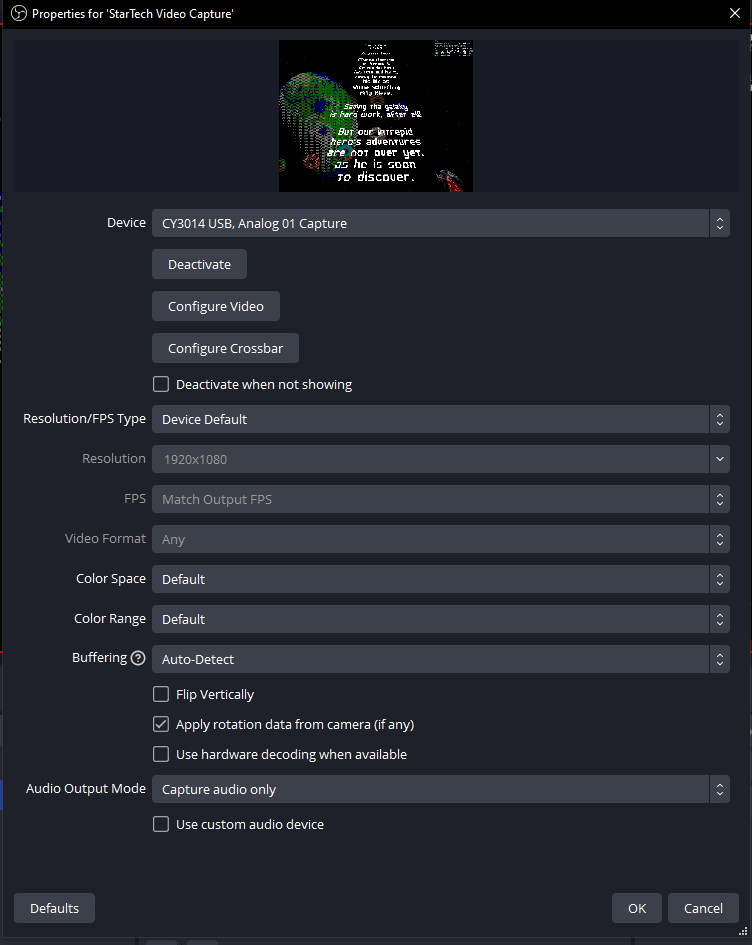
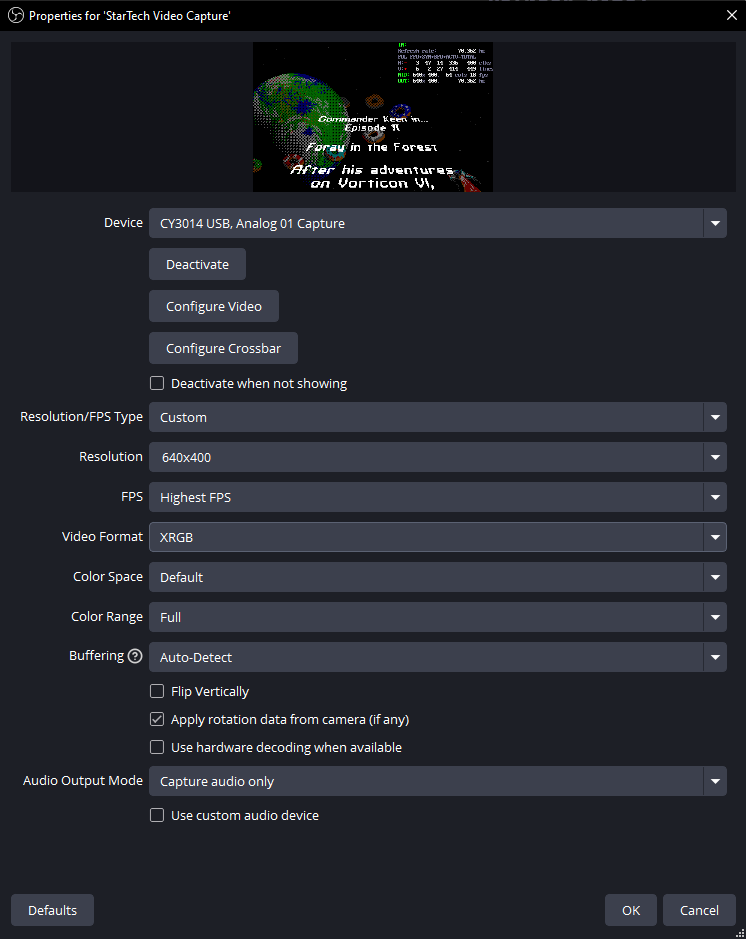
Revise "Capturing CRT Terminator output for YouTube or Twitch streaming via OBS" section with clarifications to OBS behavior.

diff --git a/manual/index.html b/manual/index.html
@@ -753,23 +753,20 @@ all packed into a single 8-bit ISA expansion card!
 <p>We have tested a range of USB HDMI video capture devices for compatibility. Coarsely categorizing the results:
 <ul><li>The main observation is that Elgato HDMI video capture devices do not work at all. Avoid these devices. (The suspicion is that Elgato skimped on adding DVI-D video signal recording support)</li>
 <li>Cheap Amazon HDMI capture devices tend to work, but typically use Motion JPEG compression (MJPEG) in the recorded video, so video capture quality is not that great. Maximum recordable pixel clock speed (i.e. resolution * refresh rate) may be limited.</li>
-<li>The best video capture device we have found so far is this <a href='https://www.startech.com/en-fi/audio-video-products/usb3hdcap'>StarTech USB3HDCAP device</a>, although it records lossy 4:2:0 Chroma, its drivers are somewhere from Windows 7 era and StarTech is no longer developing it, it seems. Sometimes disconnecting the device from USB causes a blue screen on Windows. The available recording bandwidth is great, but not quite enough to record 1600x1200 @ 70 Hz. (1280x1000 @ 70 Hz seems to work, and so does 1440x1080 @ 60 Hz)</li>
+<li>The best video capture device we have found so far is this <a href='https://www.startech.com/en-fi/audio-video-products/usb3hdcap'>StarTech USB3HDCAP device</a>, although it records lossy 4:2:0 Chroma, its drivers are somewhere from Windows 7 era and StarTech is no longer developing it, it seems. Sometimes disconnecting the device from USB or closing OBS causes a blue screen on Windows. The available recording bandwidth is great, enough to record all DOS video modes in Passthrough mode at 70 Hz, and other upscaled resolutions, such as 1600x1200 @ 60 Hz and 1440x1080 @ 70 Hz. Though there is not quite enough bandwidth to record 1600x1200 @ 70 Hz.
 <li>One brand of video capture devices we have not been able to test, but are curious about, are the Magewell branded USB capture boxes. They are said to offer 4:4:4 Chroma recording support.</li>
 </ul>
 
-<p>An example video capture of Mode 13h content, i.e. 320x200 @ 70 Hz, from an open source game mod <i>Commander Keen in... "Goodbye, Galaxy!" Episode π: Foray in the Forest</i> recorded as 1280x1000 @ 70 Hz source from OBS, upscaled to 1600x1200 is available here:
-<ol><li><a href='https://www.youtube.com/watch?v=8o7cu9mYL10'>Uploaded to YouTube</a></li>
-<li><a href='https://oummg.com/dump/commander_keen_foray_in_the_forest_crt_terminator.mkv'>Direct .mkv download link</a> (file size: 306MB)</li>
+<p>An example video capture of Mode 13h content, i.e. 320x200 @ 70 Hz, from an open source game mod <i>Commander Keen in... "Goodbye, Galaxy!" Episode π: Foray in the Forest</i> recorded in CRT Terminator Passthrough mode (640x400 @ 70.362 Hz) from OBS, upscaled to 1600x1200 is available here:
+
+<br><a href='foray_video_thumbnail.png'><img src='foray_video_thumbnail.png' width=55%></a><img src='commander_keen_foray_in_the_forest_crt_terminator_1600x1200_70.362hz.png'>
+<ol><li>Uploaded to <a href='https://youtu.be/FR_v5XbwRb8'>YouTube: Commander Keen - Foray in the Forest - 1600x1200 @ 70.362 Hz.</a></li>
+<li>Direct download link without YouTube recompression: <a href='https://oummg.com/manual/commander_keen_foray_in_the_forest_crt_terminator_1600x1200_70.362hz.mkv'>commander_keen_foray_in_the_forest_crt_terminator_1600x1200_70.362hz.mkv</a> (file size: 229MB)</li>
 </ol>
 
 <p>The Foray in the Forest mod contains patches to update Keen 4 to run at 70 fps, instead of the original 35fps that Keen 4-6 games were developed to run at. See <a href='https://github.com/juj/KEEN70HZ'>juj/KEEN70HZ</a> for more details about Keen refresh rate.
 
-<p>However, due to some OBS software bugs, the video it records from USB3HDCAP is not perfect. There are two observed limitations:
-<ol><li>For some reason, OBS acquires video from USB3HDCAP by frame skipping every second frame. That is, if the input video is 60 or 70 Hz, then OBS only records 30 or 35 Hz respectively. This may be due to some kind of confusion between interlaced and progressive video modes. CRT Terminator always output progressive video, but OBS still only captures every second frame. Originally I thought this to be a USB3HDCAP hardware limitation, but using other software (see the next section about VirtualDub), this limitation does not occur. USB3HDCAP can record both 60 and 70 Hz, but for some reason OBS (tested v30.1.2) always skips every other input video frame from USB3HDCAP.</li>
-<li>Additionally, OBS generates some amount of blurring in the video it acquires from USB3HDCAP. Originally I attributed this to the 4:2:0 lossy Chroma from USB3HDCAP, but in addition, OBS adds some kind of blurring or filtering on top of that (which again VirtualDub capture avoided). This blurring is present already in the OBS preview window, so is not a compression artifact.</li>
-</ol>
-
-<p>Nevertheless, it is possible to use OBS to get decent video captures from USB3HDCAP recording CRT Terminator. The configuration that was used in OBS to acquire the above video recording is as follows:
+<p>The next section outlines the OBS capture settings that were used to record this video.
 
 <h3>General Video Recording Settings</h3>
 
@@ -786,9 +783,9 @@ all packed into a single 8-bit ISA expansion card!
 
 <p>In particular, the video canvas size was set to 1600x1200. This is a good resolution for recordings that aim for lossless 4:3 aspect ratio video output. Another good video canvas size for viewing on 1080p displays would be to set 1440x1080. That size would correspond to 4:3 aspect ratioed 1080 lines content.
 
-<p>The FPS value was set to precisely match the video output refresh rate that CRT Terminator states to be outputting. In this instance, it was 70362/1000 or 70.362 Hz. To see the CRT Terminator video refresh rate, either toggle the Developer HUD with the DIP Switch 2.4 at the back of CRT Terminator, or see if the HDMI Video Capture device you are using has a statistics window that could record this.
+<p>The FPS value was set to precisely match the video output refresh rate that CRT Terminator states to be outputting. In this instance, it was 70362/1000 or 70.362 Hz. To see the CRT Terminator video refresh rate, either toggle the Developer HUD with the DIP Switch 2.4 at the back of CRT Terminator, or see if the HDMI Video Capture device you are using has a statistics window that displays this value.
 
-<p>Note that even if video refresh rate is set to precisely match the source content, this will not be a locked synchronization, and occassional frames can and will drop. It is a bit odd that OBS does not seem to support locking the recording refresh rate to the rate of an input video, so this is the closest approximation we found.
+<p>Note that even if video refresh rate is set to precisely match the source content, this will not be a locked synchronization in OBS, and occassional frames can and will drop. It is a bit odd that OBS does not seem to support locking the recording refresh rate to the rate of an input video, so this is the closest approximation we found. However, the expected frame drop should occur less than 1/1000th of a Hz, i.e. approximately at most once every 1000 frames, in this case at most every 14.2 seconds.
 
 <p>It should be noted that recording with "odd" refresh rates like this make sense only if viewed on a high refresh rate display. For example, viewing 70Hz video on a 60Hz display is not much different from viewing 60Hz recorded video in the first place. However, when viewing 70Hz video on a high refresh rate gaming display, e.g. a 144 Hz, 240 Hz, 360 Hz or higher, video playback frame stuttering mismatches are minimized.
 
@@ -800,12 +797,14 @@ all packed into a single 8-bit ISA expansion card!
 
 <p> <a href='obs_startech_settings1.png'><img src='obs_startech_settings1.png' width=25%></a>
 
-<p>Because the StarTech capture device does not have enough bandwidth for capturing 1600x1200 @ 70Hz, then as a compromise, MultiMode and StutterStop Level 3 were enabled and video output DIP switches 1.1-1.4 were set to 1440x1080. This resulted in CRT Terminator outputting a video of size 1280x1000 @ 70.362 Hz.
+<p>The StarTech USB3HDCAP capture device is 4:2:0 Chroma lossy, but fortunately if the video capture is done at exactly 2x the resolution of the original video, the Chroma loss is hidden. Setting CRT Terminator to Passthrough mode will do exactly this for DOS 320x200 mode, i.e. the video will then output at 640x400 resolution, and at original refresh rate.
 
 <p> <a href='obs_startech_settings2.png'><img src='obs_startech_settings2.png' width=40%></a>
 <a href='obs_startech_settings3.png'><img src='obs_startech_settings3.png' width=40%></a>
 
-<p>None of the settings for the video capture device were changed, but were left to the defaults.
+<p>For USB3HDCAP specifically, it is important to set <b>Resolution/FPS Type</b> to <i>Custom</i>, and then set <b>Video Format</b> to <i>XRGB</i>, or otherwise OBS/USB3HDCAP will apply some kind of own "extra" Chroma loss to the output (we thought Chroma loss in uncompressed/raw video would be <a href='https://en.wikipedia.org/wiki/Idempotence'>idempotent</a>, but apparently the effect does cumulate somehow in OBS). Setting Video Format to XRGB was critical for USB3HDCAP to get a lossless pixel perfect recording.
+
+<p>Unfortunately OBS has a bit awkward UI quirk that setting Video Format to custom then requires that one manually also configures the recording Resolution. There is no way to just say "record whatever input resolution is coming in, but as XRGB." So this was set manually to 640x400. Getting the recording resolution exactly right is critical for pixel perfect captures.
 
 <h3>Source Transform Settings</h3>
 
@@ -816,13 +815,13 @@ all packed into a single 8-bit ISA expansion card!
 <p> <a href='obs_edit_transform.png'><img src='obs_edit_transform.png' width=40%></a>
 <a href='obs_transform_settings.png'><img src='obs_transform_settings.png' width=40%></a>
 
-<p>Here the Size parameter was set to match the 1280x1000 video input size, but the Bounding Box Size was set to match the 1600x1200 video output size.
+<p>Here the Size parameter was set to match the 640x400 video input size, but the Bounding Box Size was set to match the 1600x1200 video output size.
 
 <p>These configurations ensure that OBS will stretch the source video over the 1600x1200 canvas.
 
 <h3>Scale Filtering Settings</h3>
 
-<p>Finally, to ensure that the video upscaling to 1600x1200 will take place with the best possible image quality, the Video Scale Filtering options were changed to <i>Area</i> mode. This implements surface-area upsampling, which provides great quality output that does not blur like bilinear filtering does.
+<p>Finally, to ensure that the video upscaling to 1600x1200 will take place with the pixelated image look, the Video Scale Filtering options were changed to <i>Area</i> mode. This implements surface-area upsampling, which provides great quality output that does not blur like bilinear filtering does. In this specific case (upscaling 320x200 video that is upscaled to 640x400, and then upscaling that to 1600x1200) setting between <i>Area</i> and <i>Point</i> shouldn't matter, and should give identical result. Although in other upscaling scenarios, we prefer the Area mode.
 
 <p><a href='obs_scale_filtering.png'><img src='obs_scale_filtering.png' width=40%></a>
 
@@ -830,11 +829,9 @@ all packed into a single 8-bit ISA expansion card!
 
 <a name='virtualdub_video_capture'><h2>Lossless and pixel perfect 70 Hz video capture using VirtualDub</h2></a>
 
-<p>Given the observed bugs in popular OBS software that cause it to drop video frames and prevent it from capturing pixel perfect video from USB3HDCAP, it makes sense to compare against other video capture software.
+<p>If OBS is giving trouble, it makes sense to compare against other video capture software.
 
-<p>One such software is the old "trusted" <a href='https://www.virtualdub.org/download.html'>VirtualDub</a>, which was a great power tool in the 2000s. It is no longer actively developed (last version is from 2014), but it does support somewhat "raw" video capture from any Windows driver compatible acquisition device. To a great surprise, whereas OBS failed due to a number of bugs, using VirtualDub enables acquiring practically lossless(*) and pixel perfect video footage from any DOS program.
-
-<p>(* subject to capture frame rate note discussed below)
+<p>In this section, one such software, the old "trusted" <a href='https://www.virtualdub.org/download.html'>VirtualDub</a> is tested. This was a great power tool in the 2000s. It is no longer actively developed (last version is from 2014), but it does support somewhat "raw" video capture from any Windows driver compatible acquisition device.
 
 <p>VirtualDub does not support "modern" live compression of video, so the footage it captures gets enormous quickly. However, given a large enough hard drive and the <a href='https://www.ffmpeg.org/'>FFmpeg</a> command line utility, one can use this toolset as a proof of concept at least to show that making lossless pixel and frame rate perfect video captures of DOS content with CRT Terminator is possible.
 
@@ -868,7 +865,7 @@ all packed into a single 8-bit ISA expansion card!
 <p><a href='vdub_capture_settings.png'><img src='vdub_capture_settings.png' width=30%></a>
 <a href='vdub_capture_settings2.png'><img src='vdub_capture_settings2.png' width=30%></a>
 
-<p><b>Note:</b> For some reason, one needs to specify the recording frame rate to both VirtualDub and OBS. There is no possibility to say "capture locked to the input video stream frame rate" as far as we can tell. So when one specifies e.g. a capture refresh rate of 71.200 Hz to VirtualDub or OBS, even when the input video is a matching 71.200 Hz, there can and will still be some occassional frames dropped (even if these drops will come at a rate less than 1/1000th Hz). This is because realistically, video refresh rate is not an integer, like 60 (no matter what OBS would like users to believe), and it is not even a simple fraction, like 71.200 or 71200/1000, but it can practically be seen as an irrational value with infinite number of digits. A value like 71.200 Hz is also just a rounded approximation of a physical process.
+<p><b>Note:</b> For some reason, one needs to specify the recording frame rate to both VirtualDub and OBS. There is no possibility to say "capture locked to the input video stream frame rate" as far as we can tell. So when one specifies e.g. a capture refresh rate of 71.200 Hz to VirtualDub or OBS, even when the input video is a matching 71.200 Hz, there can and will still be some occassional frames dropped (even if these drops will come at a rate less than 1/1000th Hz). This is because realistically, video refresh rate is not an integer, like 60, and it is not even a simple fraction, like 71.200 or 71200/1000, but it can practically be seen as an irrational value with infinite number of digits. Any value like 71.200 Hz is only a rounded approximation of a physical process.
 
 <p>The proper software implementation for a video capture software would be to have a "capture locked to input frame rate" option. Neither OBS or VirtualDub have this (or we haven't understood a way to enable it), but they both only support asking the user to specify a refresh rate number to sample the input video at. Maybe a better software capable of losslessly locking to input video frame rate exists still?
 
@@ -927,7 +924,7 @@ all packed into a single 8-bit ISA expansion card!
 
 <p>If you have a capture setup that resembles VirtualDub (i.e. capturing lossless, maybe uncompressed, capture card supports lossless Chroma 4:4:4), it is good to set CRT Terminator DIP 1.1-1.4 Output Settings to <b><i>Passthrough</i></b> mode to minimize the number of redundantly upscaled pixels coming in to the capture card. In this mode the source pixels are sent to the video card almost unprocessed (except for border removal and clock doubling passes). Passthrough mode can also help if the video capture device or cable has maximum bandwidth limitations.
 
-<p>On the other hand, if the capture device employs a lossy compression mode, like Chroma 4:2:0 or MJPEG, or if the capture software has problems with processing data without quality loss (like OBS), then it is expected that first upscaling the video in CRT Terminator will yield better results.
+<p>On the other hand, if the capture device employs a lossy compression mode, like Chroma 4:2:0 or MJPEG, or if the capture software has problems with processing data without quality loss, then it is expected that first upscaling the video in CRT Terminator will yield better results.
 
 <p>In this case, as long as there are no observed bandwidth limitations for the capture device, then upscaling 320x200 directly to 1600x1200 in CRT Terminator is recommended, as it can simplify the configuration in OBS or another video capture software. So far however, we have unfortunately not met a capture device that could record 1600x1200 @ 70 Hz.
 
@@ -1843,6 +1840,7 @@ int main()
 <p>This section lists changes to this manual. For precise changes, see <a href='https://github.com/juj/crt_terminator/commits/main/manual'>GitHub history on the manual/ subdirectory</a>.
 
 <ul>
+<li><b>2024-12-05</b>: Revised "Capturing CRT Terminator output for YouTube or Twitch streaming via OBS" section with clarifications to OBS behavior.</li>
 <li><b>2024-12-05</b>: Revised "Video Upscaling with CRT Terminator" section with a new comparison table, and uploaded new video capture screenshots that avoided a OBS misconfiguration with earlier screenshots.</li>
 <li><b>2024-11-26</b>: Added a section on lossless/pixel perfect VirtualDub HDMI video capture with examples.</li>
 <li><b>2024-11-24</b>: Added a section on HDMI video capture.</li>
